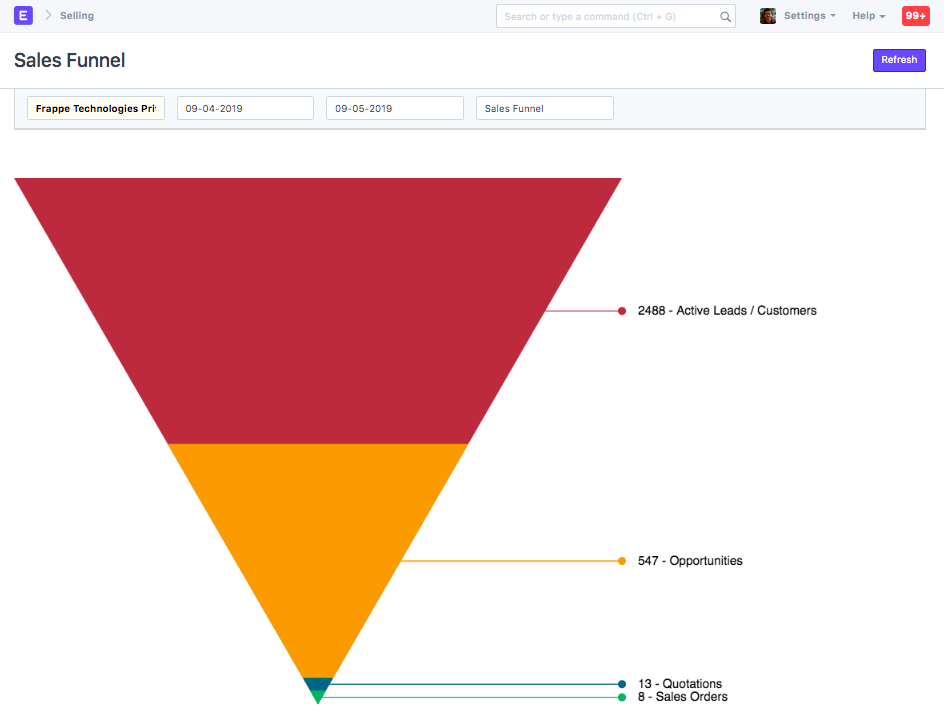
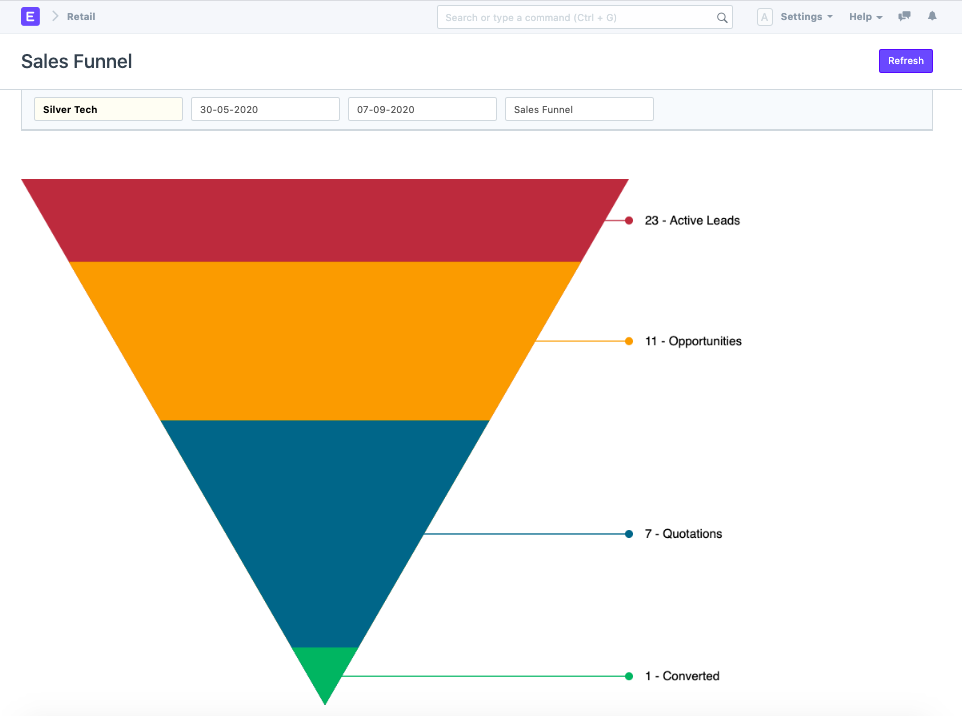
docs: updated sales funnel doc (#141)
* docs: updated sales funnel doc

* Update erpnext_documentation/www/docs/user/manual/en/selling/sales-analytics.md

* Update sales-analytics.md

diff --git a/erpnext_documentation/www/docs/user/manual/en/selling/sales-analytics.md b/erpnext_documentation/www/docs/user/manual/en/selling/sales-analytics.md
@@ -26,7 +26,14 @@ In the following screenshot, the data column to the right highlighted in orange 
 Using the 'Set Chart' button, you can set values for the X and Y fields, use different type of charts and select a color.
 
 ## 2. Sales Funnel Report
-Go to **Selling > Analytics**. The sales funnel report provides sales generation analysis. It displays the progression of stages in the sales process.  There are four stages for leading up to a Sales Order: Active Leads/Customers, Opportunities, Quotations and Sales orders.
+Go to **Selling > Analytics**. The report "Sales Funnel" provides a sales generation analysis. It displays the progression of stages in the sales process.  There are four stages leading up to a Sales Order: Active Leads, Opportunities, Quotations and Converted (has become a Customer).
+
+- Active Leads shows the number of all your **Leads**, including all the other stages.
+- Opportunities shows the number of Leads for which an **Opportunity** was created.
+- Quotation shows the number of leads for which a **Quotation** was submitted.
+- Converted shows the number of leads for which a **Quotation** and **Sales Order** was submitted.
+
+The earlier stages usually include the later stages. However, if an earlier stage was skipped, you might see counterintuitive results like two **Quotations** resulting from one **Opportunity** (because it is not mandatory to create an **Opportunity** first).
 
 <img alt="Sales Funnel" class="screenshot" src="/docs/assets/img/crm/sales_funnel.png">
 
